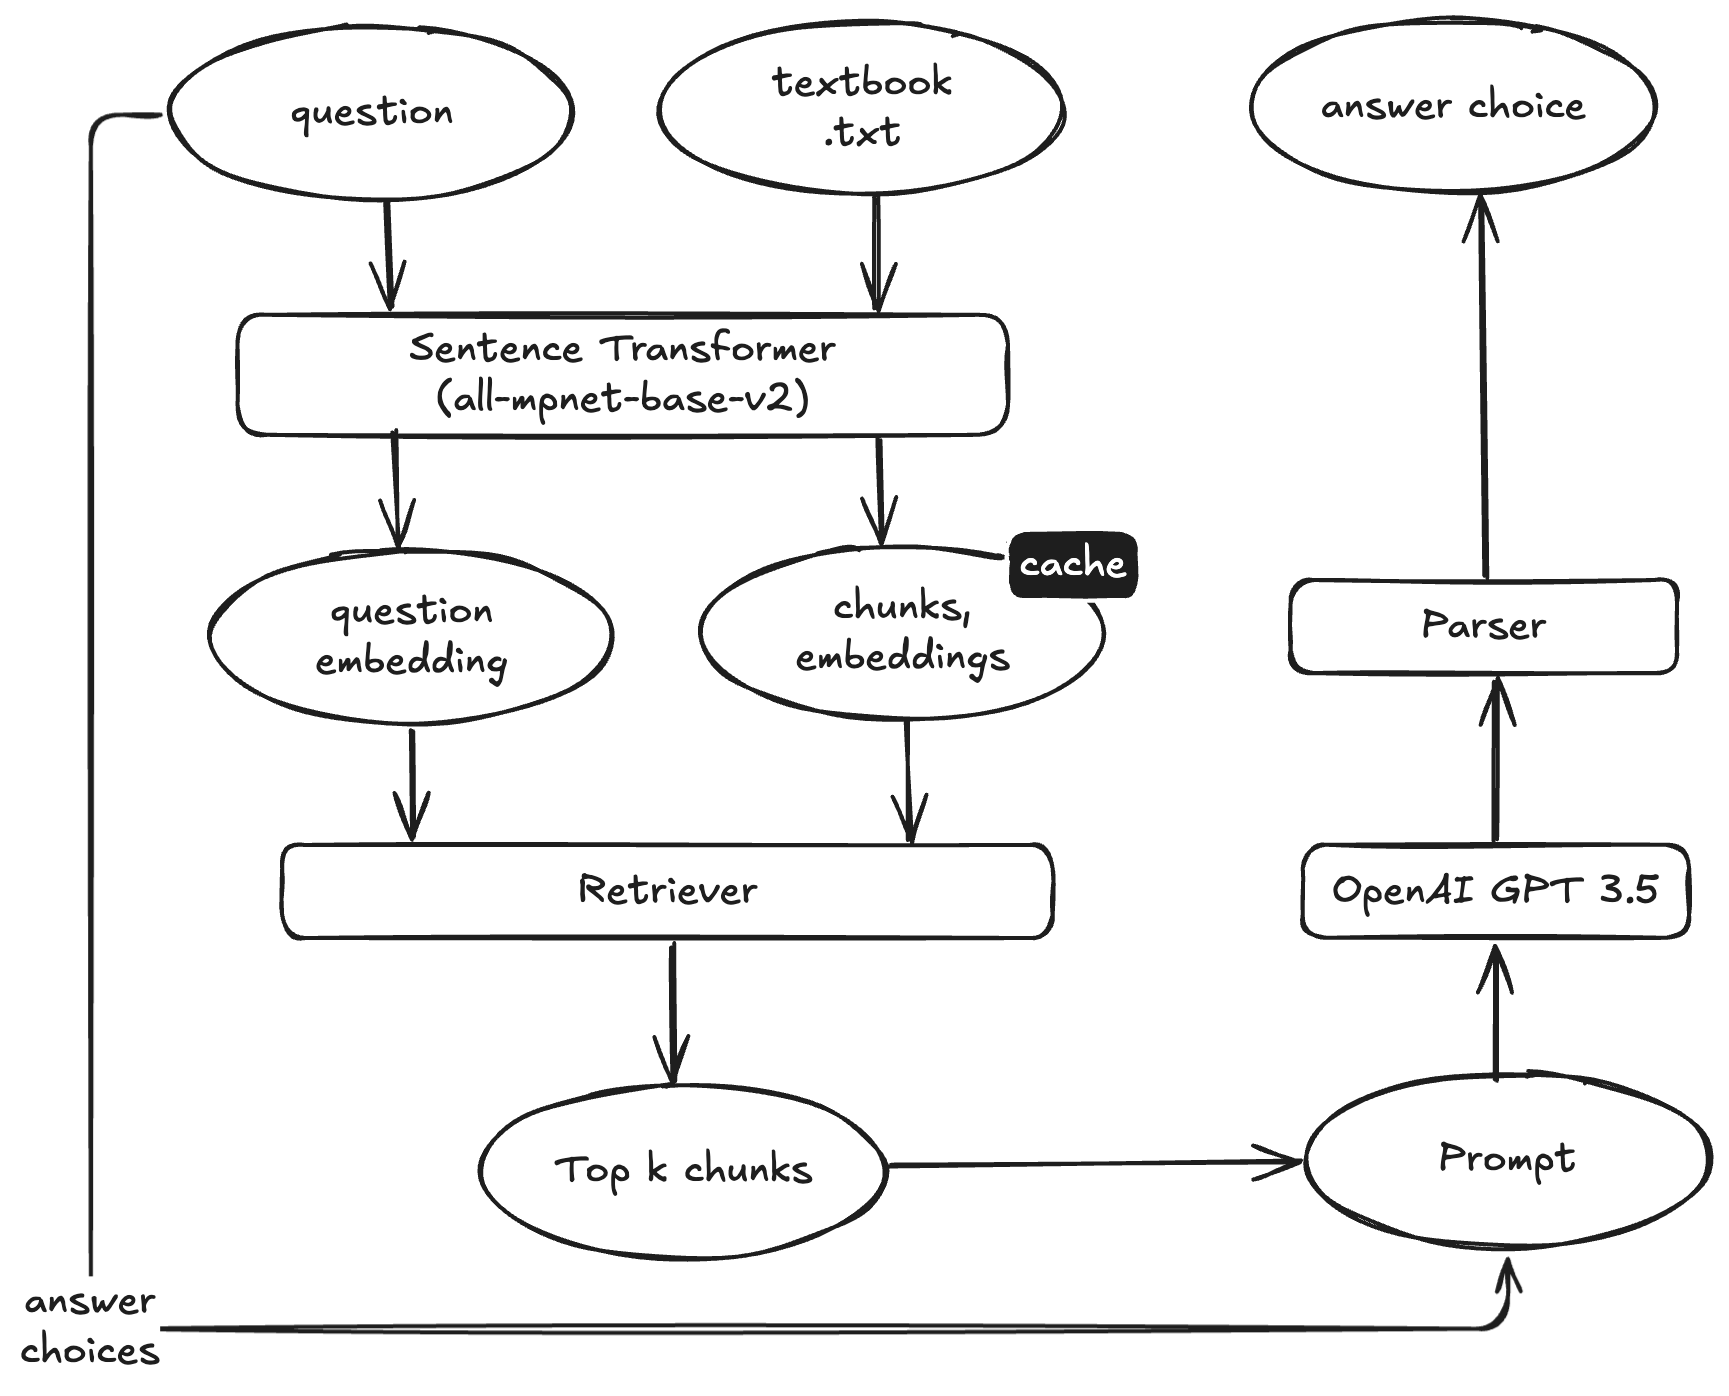
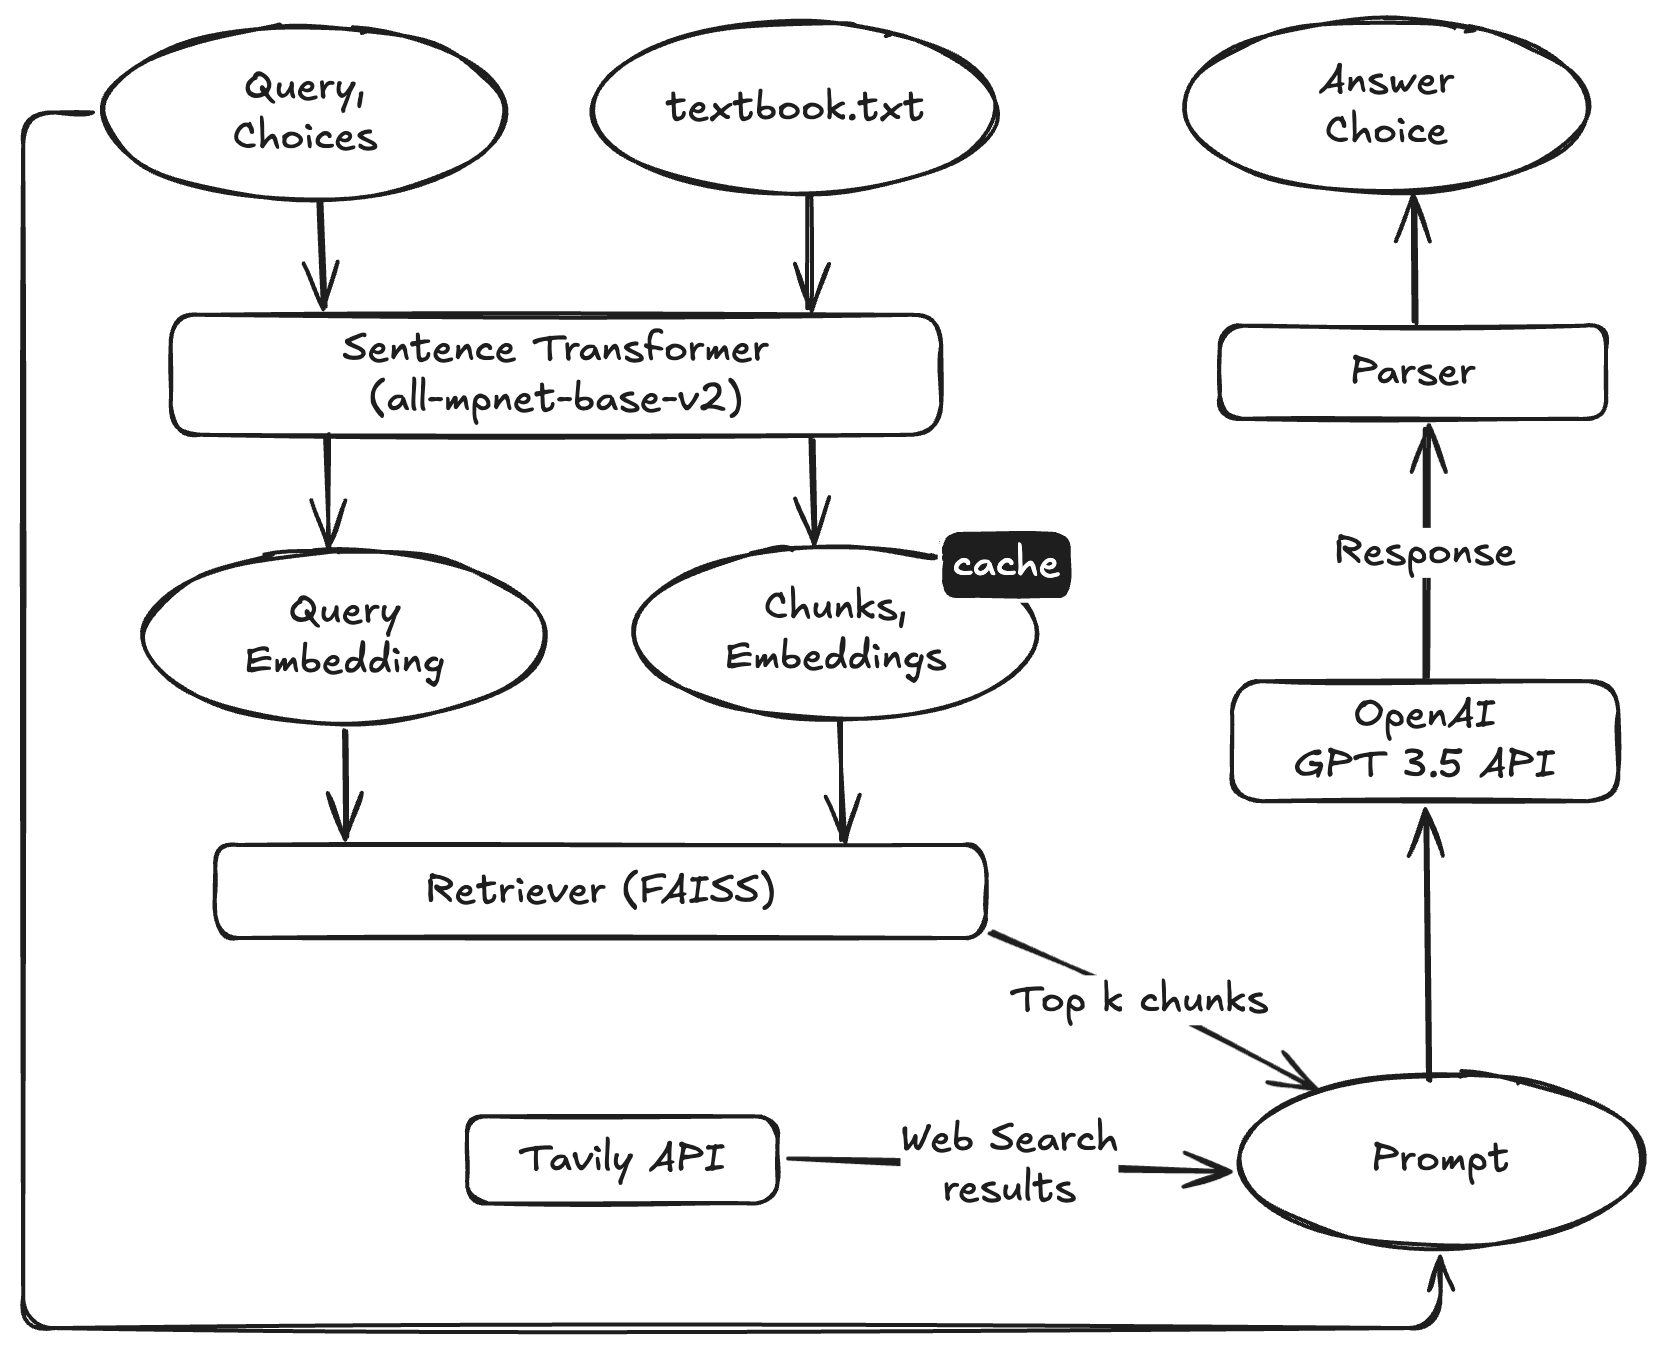
Update README and refactor testbench
- Update README badge link to point to workflows
- Increase image widths from 300px to 600px for better visibility
- Refactor testbench.py to remove unused imports and simplify code
- Update architecture diagram image

diff --git a/testbench.py b/testbench.py
@@ -1,6 +1,5 @@
 import csv
 from hip_agent import HIPAgent
-from agent.config import MAX_PARALLEL_WORKERS
 
 if __name__=="__main__":
     # Parse the CSV file
@@ -9,24 +8,22 @@ if __name__=="__main__":
         headers = next(reader)
         data = list(reader)
 
-    # Get the correct answers and prepare questions
+    # Get the correct answers
     correct_answers = []
-    questions = []
-    
+
+    # Instantiate a HIP agent
+    agent = HIPAgent()
+
+    # Get the user's responses
+    user_responses = []
     for row in data:
         answer_choices = [row[headers.index("answer_0")],
                         row[headers.index("answer_1")],
                         row[headers.index("answer_2")],
                         row[headers.index("answer_3")]]
         correct_answers.append(answer_choices.index(row[headers.index("correct")]))
-        questions.append((row[headers.index("question")], answer_choices))
-
-    # Instantiate a HIP agent
-    agent = HIPAgent()
-
-    # Process questions in parallel
-    print(f"Processing {len(questions)} questions with {MAX_PARALLEL_WORKERS} parallel workers...")
-    user_responses = agent.get_responses_batch(questions, max_workers=MAX_PARALLEL_WORKERS)
+        response = agent.get_response(row[headers.index("question")], answer_choices)
+        user_responses.append(response)
 
     # Calculate the score
     score = 0

diff --git a/README.md b/README.md
@@ -2,7 +2,7 @@
 
 # Hippocratic AI Coding Project
 
-[![Build Status](https://github.com/nee1k/rag-mcq-agent/actions/workflows/ci.yml/badge.svg)](https://github.com/nee1k/rag-mcq-agent/actions)
+[![CI](https://github.com/nee1k/rag-mcq-agent/actions/workflows/ci.yml/badge.svg)](https://github.com/nee1k/rag-mcq-agent/actions/workflows/ci.yml)
 
 A Retrieval-Augmented Generation (RAG) system for answering biomedical and life science multiple-choice questions using context from a reference textbook.
 
@@ -34,7 +34,7 @@ A Retrieval-Augmented Generation (RAG) system for answering biomedical and life 
 ## How It Works
 
 <div align="center">
-<img src="data/image.png" alt="Architecture Diagram" width="300"/>
+<img src="data/image.png" alt="Architecture Diagram" width="600"/>
 </div>
 
 The agent follows a multi-stage pipeline:
@@ -78,7 +78,7 @@ The agent has been optimized with several performance improvements including FAI
 All evaluations were conducted using a synthetic workload of [100 MCQs](tests/extended_testbench.csv) generated using [a python script](scripts/generate_questions.py). The testing was performed in a virtual machine with 8 vCPUs, 30 GB of RAM, and 60 GB of local storage.
 
 <div align="center">
-<img src="tests/benchmark_results/performance_comparison.png" alt="Performance Comparison" width="300"/>
+<img src="tests/benchmark_results/performance_comparison.png" alt="Performance Comparison" width="600"/>
 </div>
 
 Accuracy increased from 58% to 89%, while latency was reduced by half and throughput almost doubled. All benchmarks were performed with textbook embeddings pre-cached.
